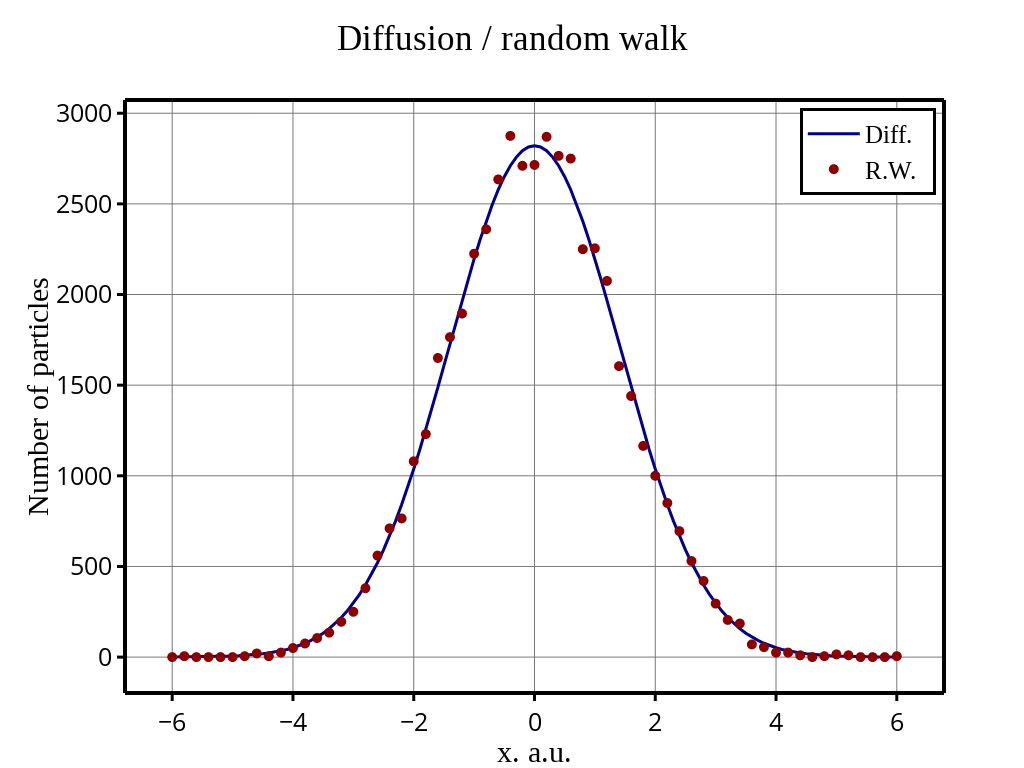
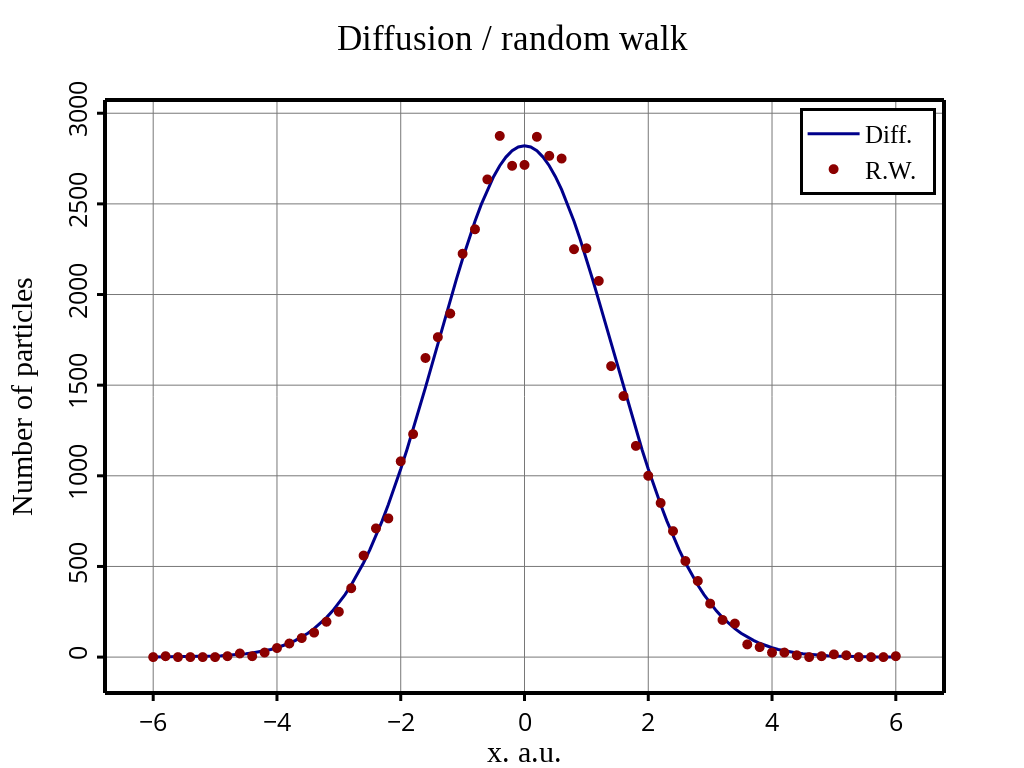
Rotate y axis labels

diff --git a/example5/src/main.rs b/example5/src/main.rs
@@ -68,7 +68,8 @@ fn line_and_scatter_plot(x1: Vec<f64>, y1: Vec<f64>, x2: Vec<f64>, y2: Vec<f64>,
     let axisy = axis
         .clone()
         .title(Title::new("Number of particles")
-            .font(Font::new().size(fsz_axes).color(forecol).family("Serif")));
+            .font(Font::new().size(fsz_axes).color(forecol).family("Serif")))
+        .tick_angle(270.0);
 
     let line_top = Shape::new()
         .shape_type(ShapeType::Line)
@@ -101,7 +102,7 @@ fn line_and_scatter_plot(x1: Vec<f64>, y1: Vec<f64>, x2: Vec<f64>, y2: Vec<f64>,
         .y_axis(axisy)
         .plot_background_color(transp)
         .paper_background_color(bgcol)
-        .margin(Margin::new().left(125).bottom(75));
+        .margin(Margin::new().left(105).bottom(75));
 
     layout.add_shape(line_top);
     layout.add_shape(line_right);
